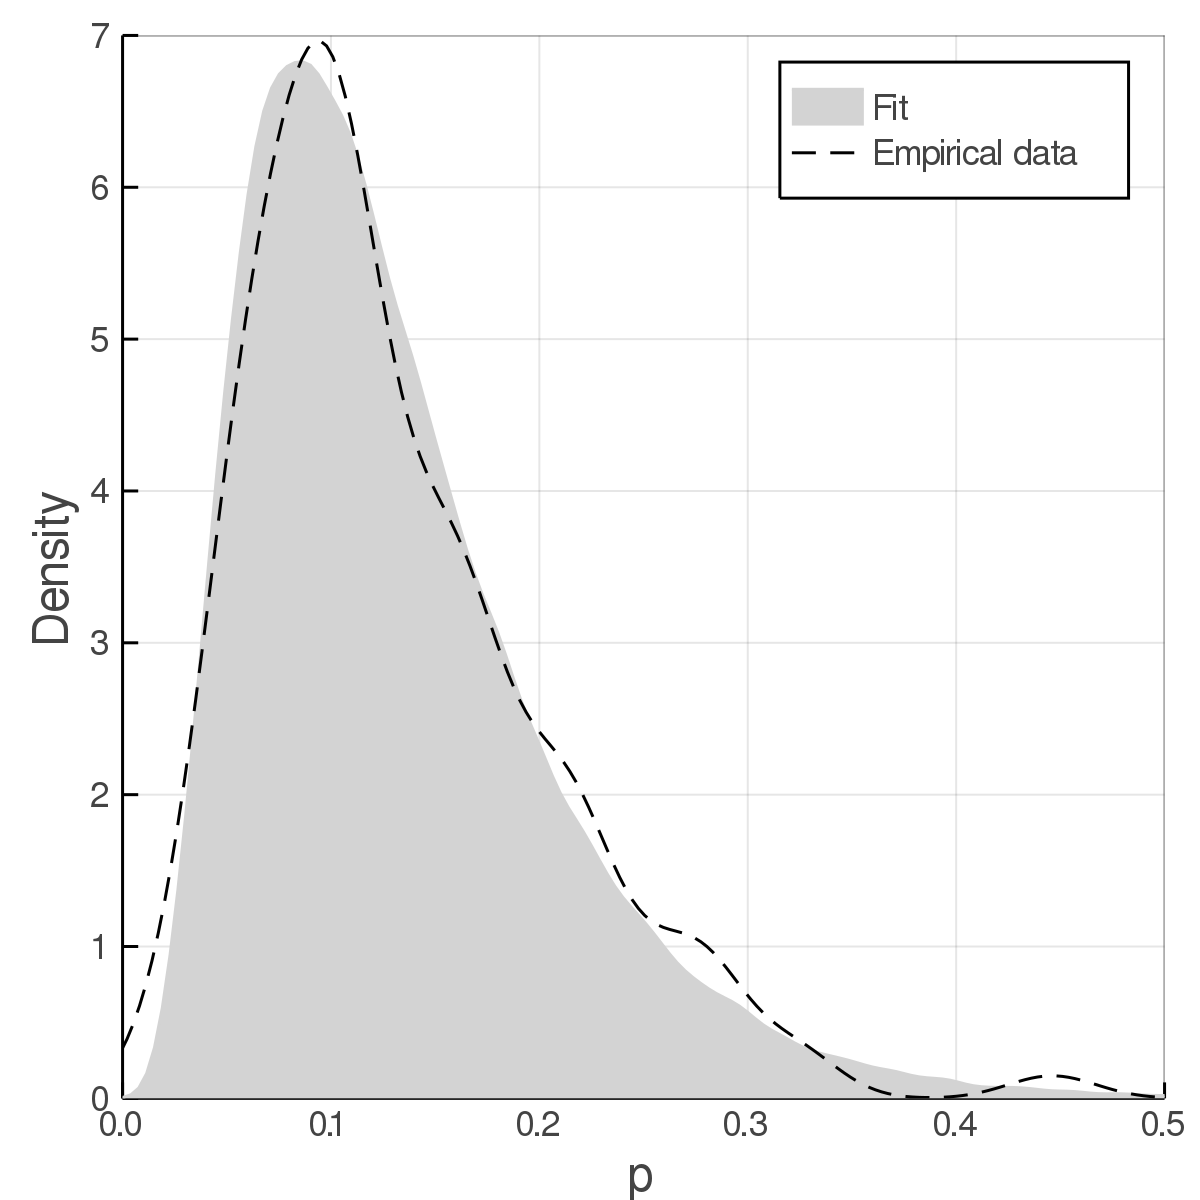
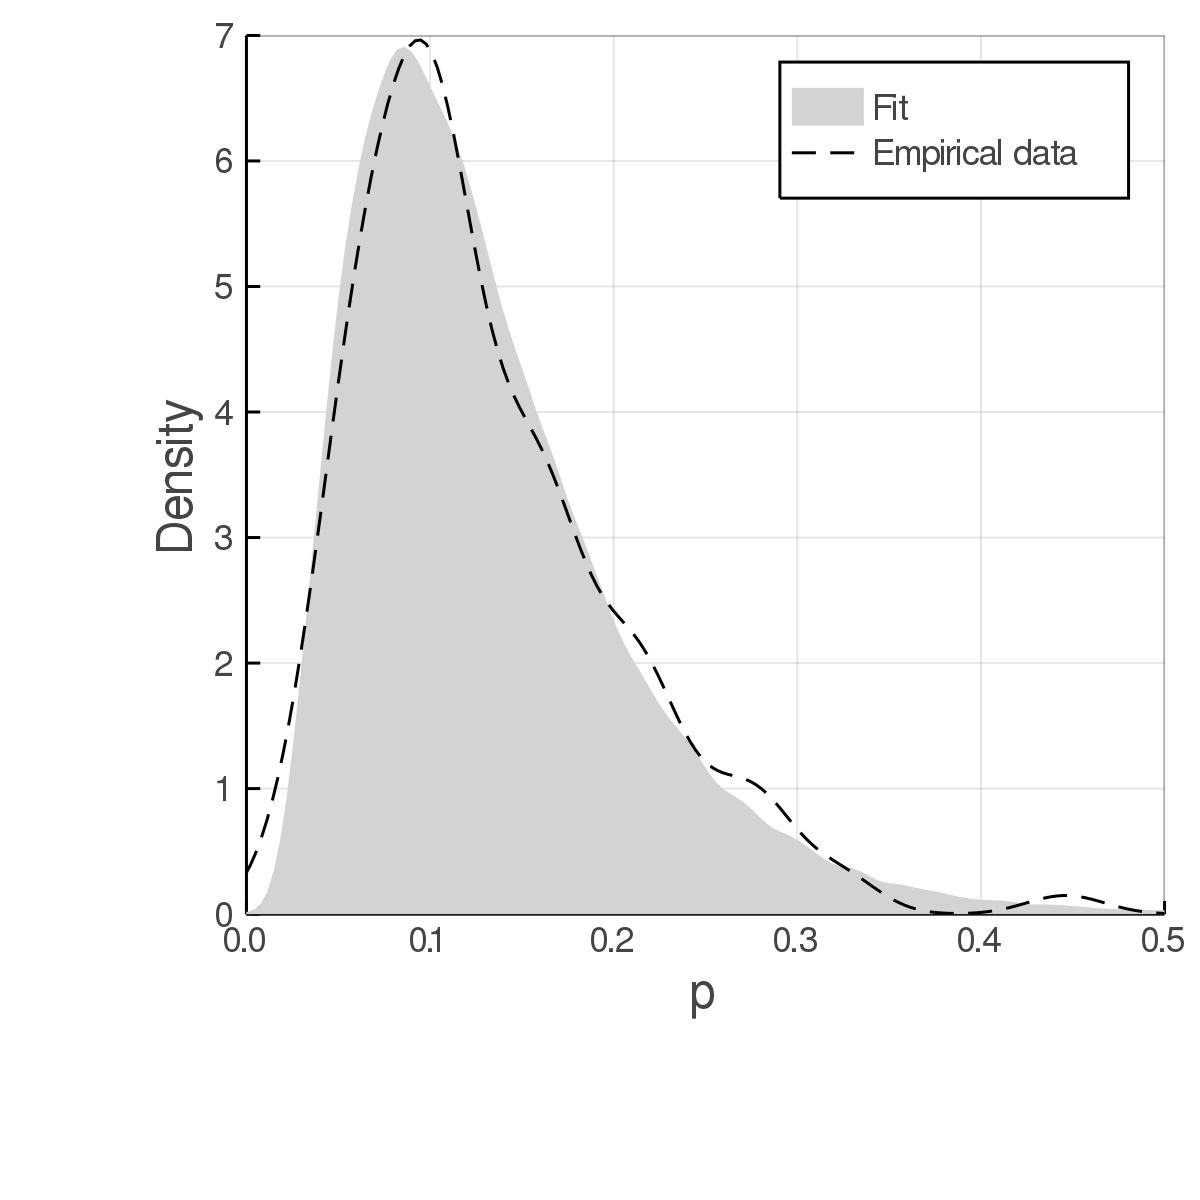
add fig to text

diff --git a/manuscript.md b/manuscript.md
@@ -136,6 +136,8 @@ $\sigma_p$.
 We use Stan (**tk version, ref**) which implements Bayesian inference using
 Hamiltonian Monte Carlo.
 
+![LogitNormal fit](figures/penciltrick.png){#fig:penciltrick}
+
 ## Comparison with other models
 
 Several other models have been used to predict the number of links in a food
